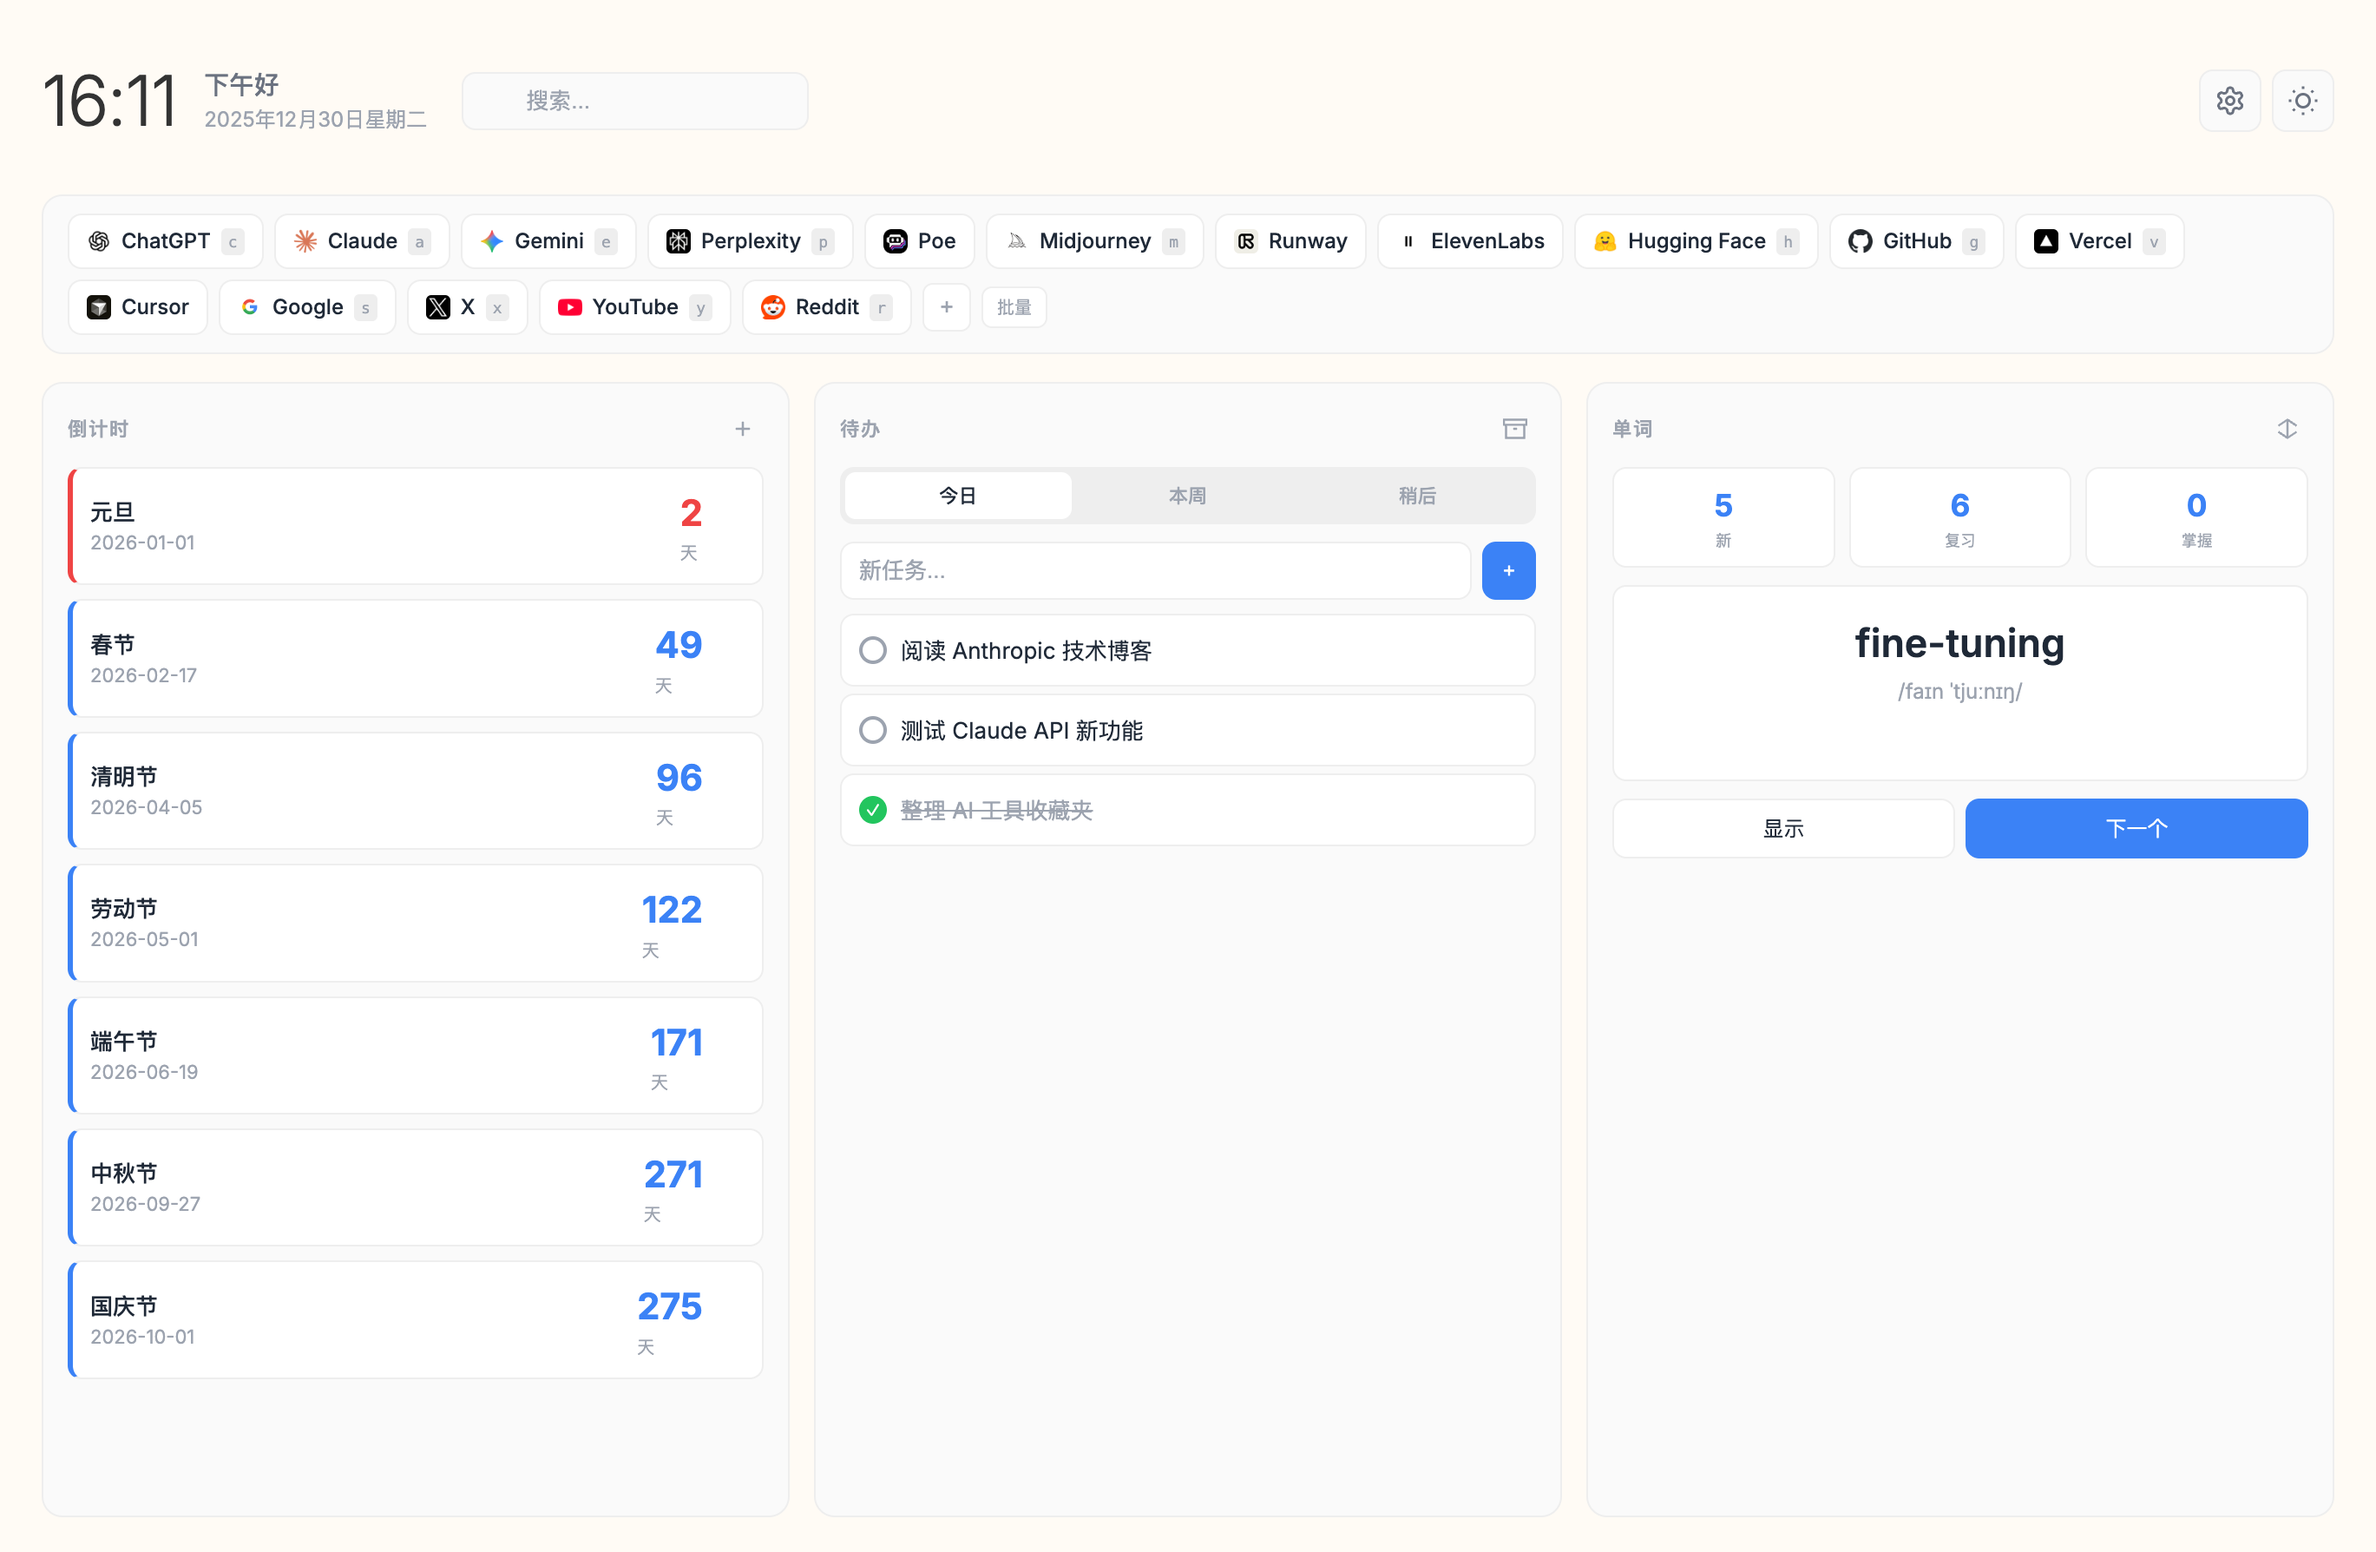
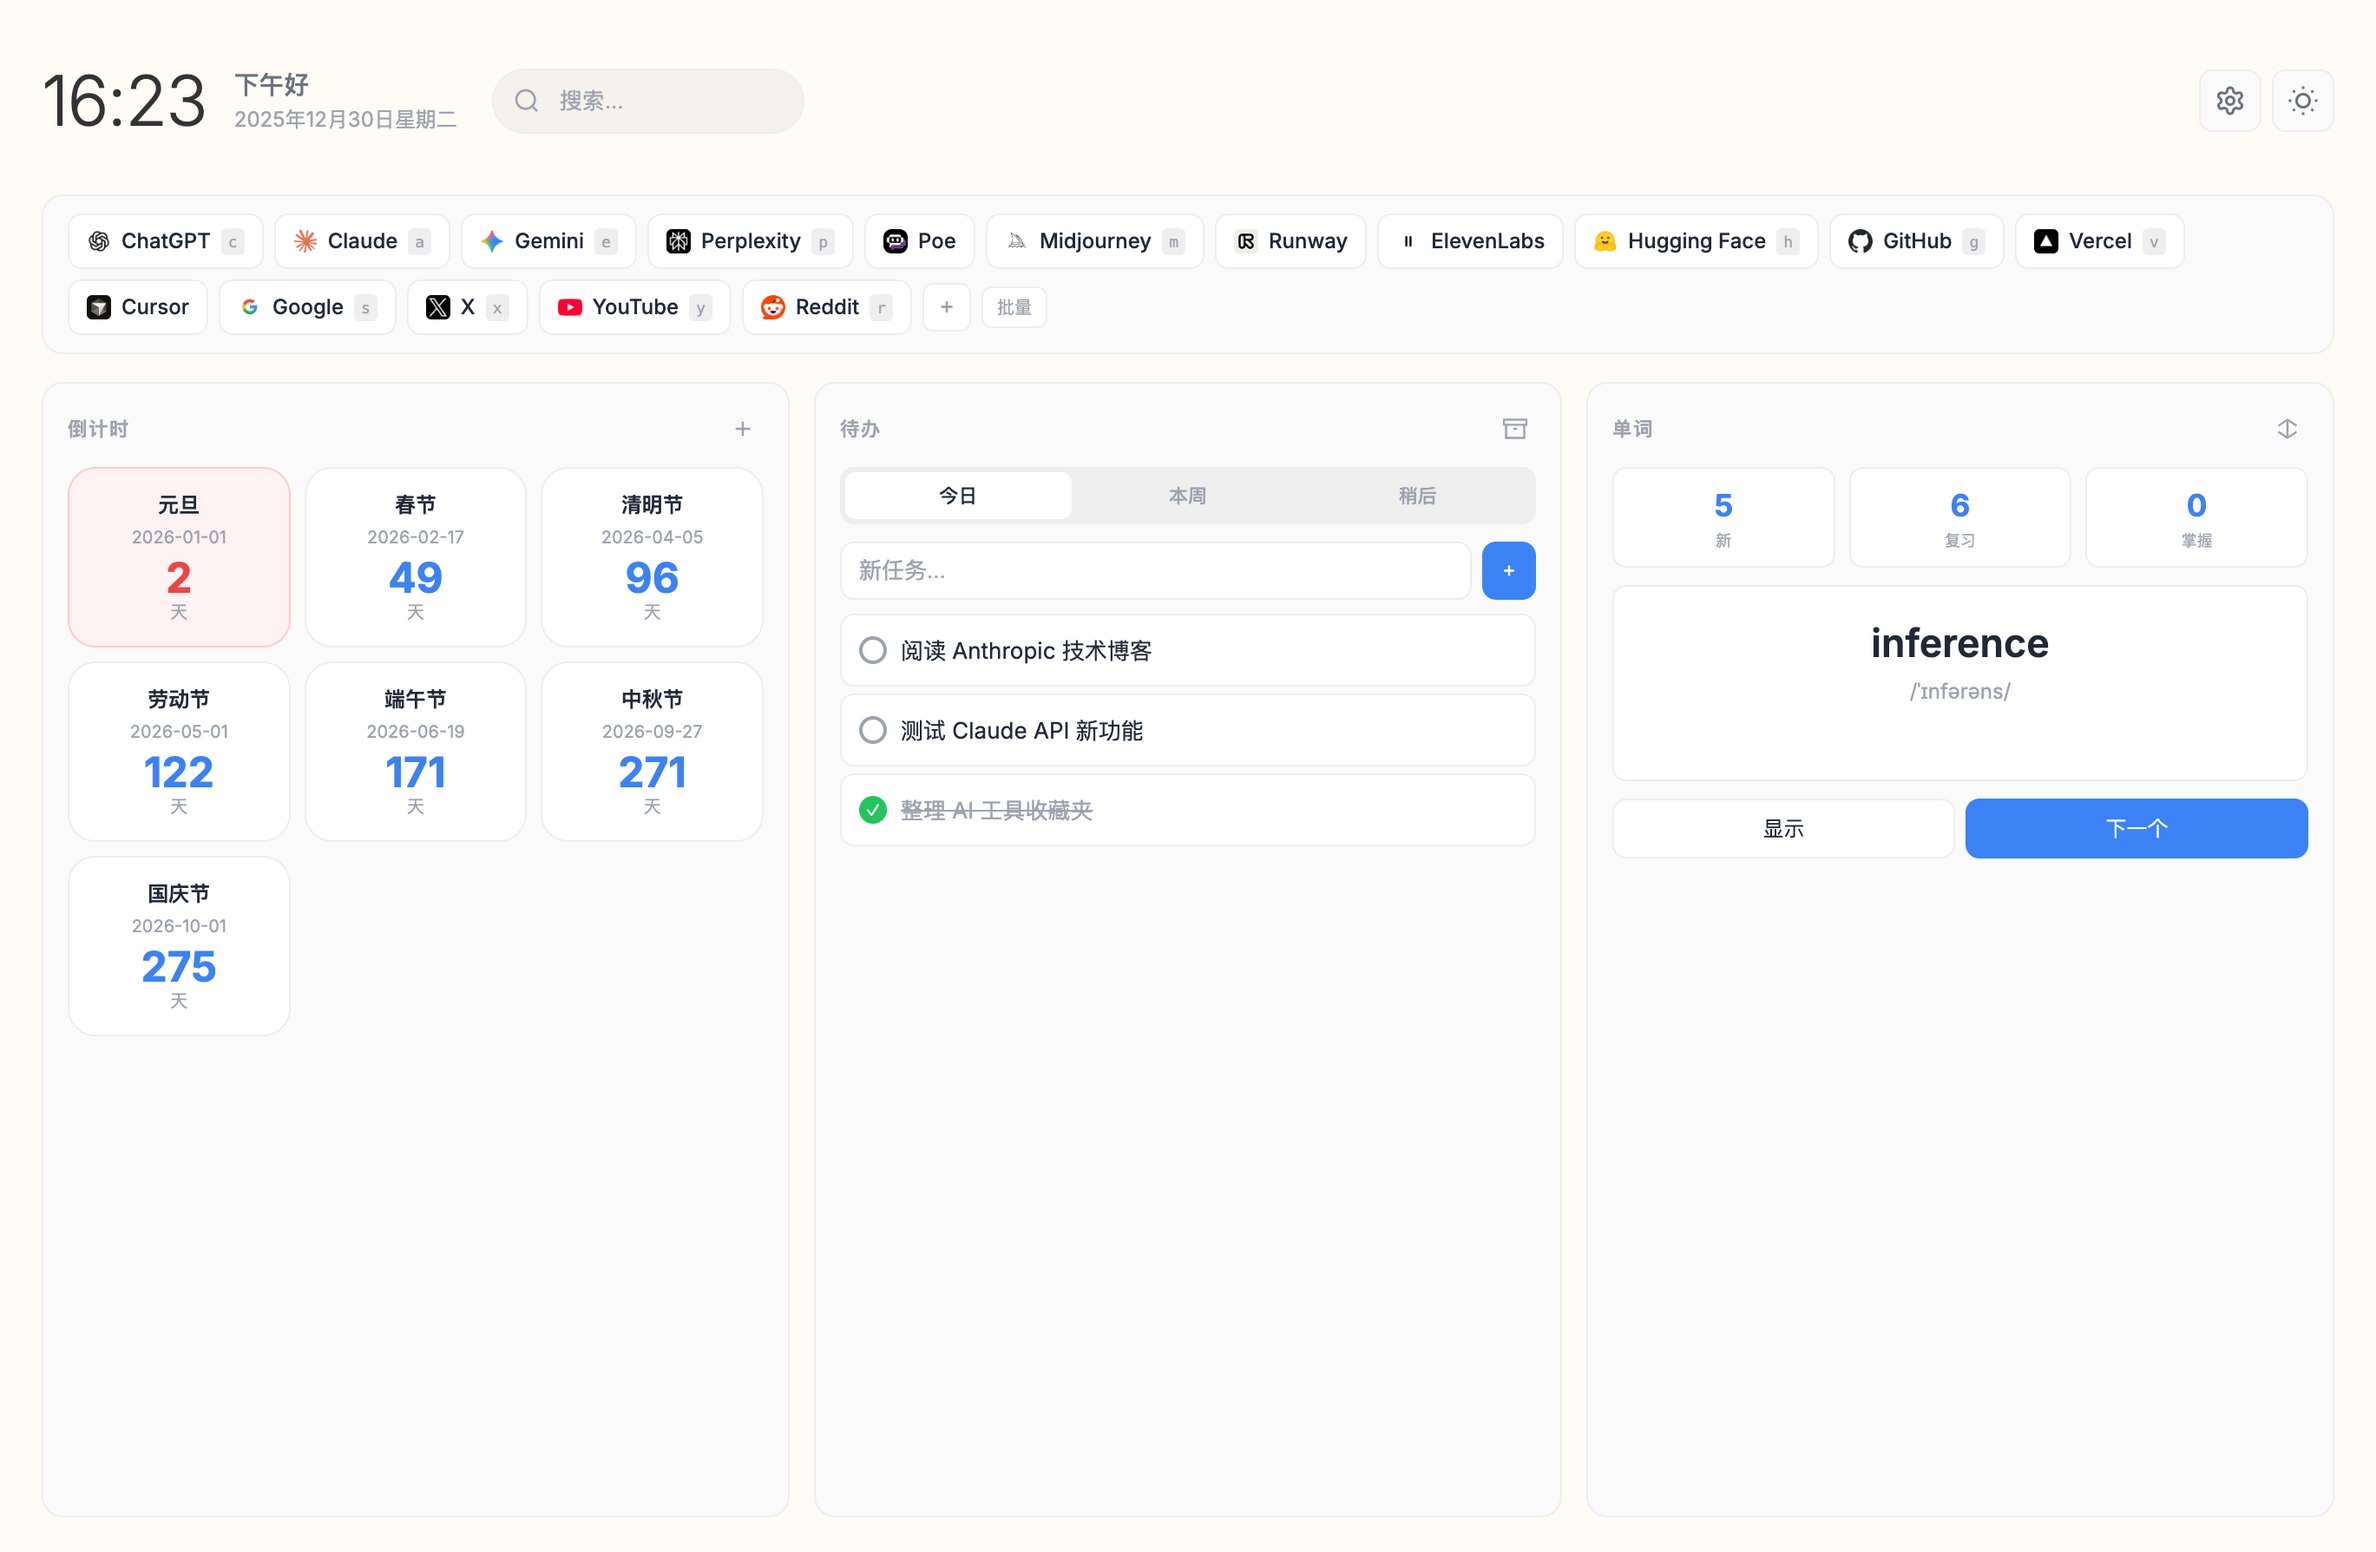
优化搜索框和倒计时卡片设计
搜索框:
- 改为圆角胶囊形状 (border-radius: 20px)
- 移除边框，使用半透明背景
- 聚焦时显示蓝色光晕效果

倒计时:
- 从列表布局改为网格卡片布局
- 每个倒计时是独立的圆角小卡片 (border-radius: 16px)
- 卡片垂直排列：节日名称、日期、天数
- 紧急/即将到来的事件有不同背景色

🤖 Generated with [CodeBuddy Code]

diff --git a/index.html b/index.html
@@ -129,17 +129,28 @@
     .header-left { display: flex; align-items: center; gap: 20px; }
     .search-box { position: relative; }
     .search-box input {
-      width: 200px; padding: 8px 12px 8px 36px;
-      background: var(--glass-bg); backdrop-filter: blur(var(--blur));
-      border: 1px solid var(--glass-border); border-radius: var(--radius-sm);
+      width: 180px; padding: 10px 14px 10px 38px;
+      background: rgba(255,255,255,0.06);
+      border: none; border-radius: 20px;
       color: var(--text-primary); font-size: 13px; outline: none;
-      transition: all 0.2s;
+      transition: all 0.25s ease;
     }
     .search-box input::placeholder { color: var(--text-muted); }
-    .search-box input:focus { width: 260px; border-color: var(--accent); }
+    .search-box input:focus { 
+      width: 240px; 
+      background: rgba(255,255,255,0.1);
+      box-shadow: 0 0 0 2px rgba(59, 130, 246, 0.3);
+    }
     .search-box svg {
-      position: absolute; left: 10px; top: 50%; transform: translateY(-50%);
+      position: absolute; left: 12px; top: 50%; transform: translateY(-50%);
       width: 16px; height: 16px; color: var(--text-muted);
+    }
+    [data-theme="light"] .search-box input {
+      background: rgba(0,0,0,0.04);
+    }
+    [data-theme="light"] .search-box input:focus {
+      background: #fff;
+      box-shadow: 0 0 0 2px rgba(59, 130, 246, 0.2);
     }
     .header-actions { display: flex; gap: 6px; }
     .icon-btn {
@@ -227,24 +238,39 @@
     }
     .card-action:hover { background: var(--glass-bg); color: var(--text-primary); }
 
-    /* Countdown */
-    .countdown-list { display: flex; flex-direction: column; gap: 8px; }
-    .countdown-item {
-      display: flex; justify-content: space-between; align-items: center;
-      padding: 10px; background: rgba(255,255,255,0.03);
-      border-radius: var(--radius-sm); border-left: 3px solid var(--accent);
+    /* Countdown - Grid of small rounded cards */
+    .countdown-list { 
+      display: grid; 
+      grid-template-columns: repeat(auto-fill, minmax(100px, 1fr)); 
+      gap: 8px; 
     }
-    .countdown-item.urgent { border-left-color: var(--danger); }
-    .countdown-item.soon { border-left-color: var(--warning); }
-    .countdown-info { flex: 1; }
-    .countdown-name { font-size: 13px; font-weight: 500; }
-    .countdown-date { font-size: 11px; color: var(--text-muted); }
-    .countdown-days { font-size: 1.3rem; font-weight: 700; color: var(--accent); }
+    .countdown-item {
+      display: flex; flex-direction: column; align-items: center;
+      padding: 12px 8px; background: rgba(255,255,255,0.04);
+      border-radius: 16px; text-align: center;
+      position: relative; transition: all 0.2s;
+    }
+    .countdown-item:hover { background: rgba(255,255,255,0.08); transform: translateY(-2px); }
+    .countdown-item.urgent { background: rgba(239, 68, 68, 0.1); }
+    .countdown-item.soon { background: rgba(245, 158, 11, 0.1); }
+    .countdown-info { margin-bottom: 4px; }
+    .countdown-name { font-size: 12px; font-weight: 600; margin-bottom: 2px; }
+    .countdown-date { font-size: 10px; color: var(--text-muted); }
+    .countdown-time { display: flex; flex-direction: column; align-items: center; }
+    .countdown-days { font-size: 1.5rem; font-weight: 700; color: var(--accent); line-height: 1; }
     .countdown-item.urgent .countdown-days { color: var(--danger); }
     .countdown-item.soon .countdown-days { color: var(--warning); }
     .countdown-label { font-size: 10px; color: var(--text-muted); }
-    .countdown-delete { opacity: 0; transition: opacity 0.15s; }
+    .countdown-delete { 
+      position: absolute; top: 4px; right: 4px;
+      opacity: 0; transition: opacity 0.15s; 
+      width: 18px; height: 18px;
+    }
     .countdown-item:hover .countdown-delete { opacity: 1; }
+    [data-theme="light"] .countdown-item { background: #fff; border: 1px solid #eee; }
+    [data-theme="light"] .countdown-item:hover { background: #fafafa; }
+    [data-theme="light"] .countdown-item.urgent { background: #fef2f2; border-color: #fecaca; }
+    [data-theme="light"] .countdown-item.soon { background: #fffbeb; border-color: #fed7aa; }
 
     /* Todo */
     .todo-tabs {
